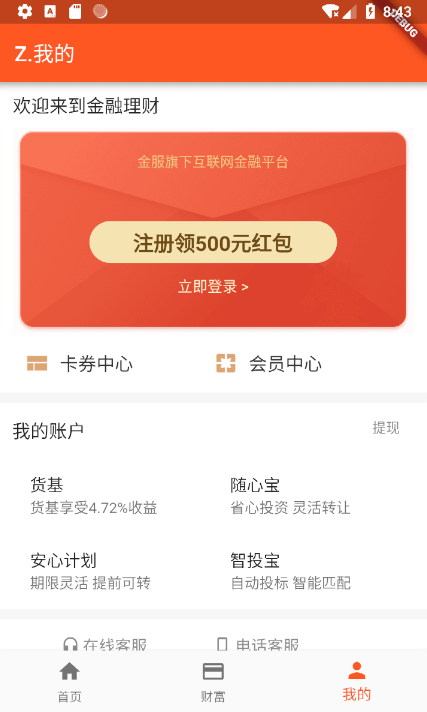
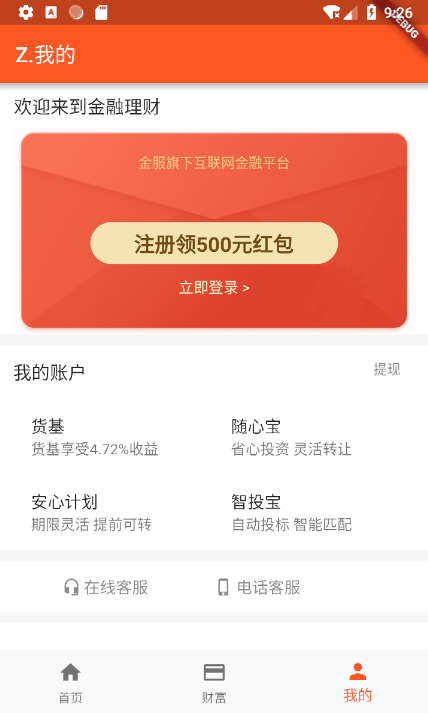
保存登录

diff --git a/lib/page/customer/customer_page.dart b/lib/page/customer/customer_page.dart
@@ -1,6 +1,10 @@
 import 'package:flutter/material.dart';
 import 'package:flutter_screenutil/flutter_screenutil.dart';
 import 'package:flutter_app/unit/event_bus.dart';
+// storage
+import 'package:flutter_app/storage/storage.dart';
+// 请求
+import 'package:flutter_app/api/my_xhr.dart';
 
 class CustomerPage extends StatefulWidget {
   @override
@@ -10,6 +14,53 @@ class CustomerPage extends StatefulWidget {
 class _CustomerPageState extends State<CustomerPage> {
 
   final EventBus bus = new EventBus();
+
+  bool _isLogin = false;
+  Map _userInfo;
+
+  // 获取用户数据
+  Future _getUserInfo (phone) async {
+    var data = await MyXhr.$get('/user-info?phone=$phone');
+    return data;
+  }
+
+  // 检查登录
+  void _checkoutLogin() {
+    LocalStorage.getString('phone').then((phone) {
+      if (phone != null) {
+        _getUserInfo(phone).then((userInfo) {
+          setState(() {
+            _isLogin = true;
+            _userInfo = userInfo;
+          });
+        });
+      }
+    });
+  }
+
+  // 进入登录页
+  void _loginAccount() {
+    Navigator.pushNamed(context, "/login_page").then((res) {
+      _checkoutLogin();
+    });
+  }
+
+  // 退出登录
+  void _logout() {
+    LocalStorage.remove('phone').then((res) {
+      setState(() {
+        _isLogin = false;
+        _userInfo = null;
+      });
+    });
+  }
+  
+  @override
+  void initState() {
+    super.initState();
+    // 判断登录
+    _checkoutLogin();
+  }
   
   @override
   Widget build(BuildContext context) {
@@ -20,7 +71,7 @@ class _CustomerPageState extends State<CustomerPage> {
       ),
       body: ListView(
         children: <Widget>[
-          _accountWidget(context: context),
+          _isLogin ? _accountWidget(userInfo: _userInfo, logout: _logout) : _registeredWidget(context: context, loginAccount: _loginAccount),
           _brWidget(),
           _shoppingListWidget(),
           _brWidget(),
@@ -32,12 +83,118 @@ class _CustomerPageState extends State<CustomerPage> {
   }
 }
 
-Widget _accountWidget ({@required context}) {
+// 用户模块
+Widget _accountWidget ({@required userInfo, @required logout}) {
+
+  Widget _userInfoUnitWidget ({@required icon, @required name}) {
+    return Expanded(
+      flex: 1,
+      child: Row(
+        children: <Widget>[
+          Icon(icon, color: Color(0xFFdca671)),
+          Padding(
+            padding: EdgeInsets.only(left: ScreenUtil().setWidth(9)),
+            child: Text(name, style: TextStyle(color: Color(0xFF333333), fontSize: ScreenUtil().setSp(16))),
+          )
+        ],
+      )
+    );
+  }
+
+  return Container(
+    padding: EdgeInsets.symmetric(
+      horizontal:  ScreenUtil().setWidth(20),
+      vertical: ScreenUtil().setWidth(12)
+    ),
+    child: Column(
+      children: <Widget>[
+        Row(
+          children: <Widget>[
+            Expanded(
+              flex: 1,
+              child: Text(userInfo['name'], style: TextStyle(fontSize: ScreenUtil().setSp(16), color: Color(0xFF333333))),
+            ),
+            GestureDetector(
+              child: Icon(
+                Icons.settings,
+                color: Color(0xFF333333),
+              ),
+              onTap: logout
+            )
+          ],
+        ),
+        Stack(
+          children: <Widget>[
+            Positioned(
+              child: Image.asset('assets/images/nicaifu.jpg', width: ScreenUtil().setWidth(335)),
+            ),
+            Positioned(
+              left: ScreenUtil().setWidth(9),
+              bottom: ScreenUtil().setWidth(7),
+              child: Container(
+                width: ScreenUtil().setWidth(317),
+                height: ScreenUtil().setWidth(32),
+                padding: EdgeInsets.only(left: ScreenUtil().setWidth(30)),
+                decoration: BoxDecoration(
+                  color: Color(0xffe65134),
+                  border: Border.all(color: Colors.transparent, width: 1.0),
+                  borderRadius: BorderRadius.only(
+                    bottomLeft: Radius.circular(ScreenUtil().setWidth(12)),
+                    bottomRight: Radius.circular(ScreenUtil().setWidth(12))
+                  )
+                ),
+                child: Text(
+                  '在途：${userInfo["midway"]}元',
+                  style: TextStyle(
+                      color: Color(0xFFf7b6a9),
+                      fontSize: ScreenUtil().setSp(12),
+                      height: 1.5
+                    ),
+                  ),
+              )
+            ),
+            Container(
+              padding: EdgeInsets.symmetric(horizontal: ScreenUtil().setWidth(30)),
+              child: Column(
+                children: <Widget>[
+                  Container(
+                    width: double.infinity,
+                    padding: EdgeInsets.only(top: ScreenUtil().setWidth(18), bottom: ScreenUtil().setWidth(20)),
+                    child: Text('总资产(元)', style: TextStyle(color: Color(0xFFf7b6a9), fontSize: ScreenUtil().setSp(12)))
+                  ),
+                  Container(
+                    width: double.infinity,
+                    child: Text(userInfo['money'], style: TextStyle(color: Color(0xFFf2b6ac), fontSize: ScreenUtil().setSp(34))),
+                  ),
+                  Container(
+                    width: double.infinity,
+                    padding: EdgeInsets.only(top: ScreenUtil().setWidth(6), bottom: ScreenUtil().setWidth(16)),
+                    child: Text('累计总收益(元) ${userInfo["profit"]}', style: TextStyle(color: Color(0xFFf7b6a9), fontSize: ScreenUtil().setSp(12))),
+                  ),
+                ],
+              ),
+            )
+          ],
+        ),
+        Padding(
+          padding: EdgeInsets.only(top: ScreenUtil().setWidth(10)),
+          child: Row(
+            children: <Widget>[
+              _userInfoUnitWidget(icon: Icons.view_compact, name: '卡券中心'),
+              _userInfoUnitWidget(icon: Icons.pages, name: '会员中心')
+            ],
+          )
+        )
+      ],
+    ),
+  );
+}
+
+// 用户未登录模块
+Widget _registeredWidget ({@required context, @required loginAccount}) {
   
   Widget _loginBannerWidget () {
-    void _loginAccount() {
-      Navigator.pushNamed(context, "/login_page");
-    }
+
     return GestureDetector(
       child: Stack(
         children: <Widget>[
@@ -70,22 +227,7 @@ Widget _accountWidget ({@required context}) {
           ),
         ],
       ),
-      onTap: _loginAccount
-    );
-  }
-
-  Widget _userInfoUnitWidget ({@required icon, @required name}) {
-    return Expanded(
-      flex: 1,
-      child: Row(
-        children: <Widget>[
-          Icon(icon, color: Color(0xFFdca671)),
-          Padding(
-            padding: EdgeInsets.only(left: ScreenUtil().setWidth(9)),
-            child: Text(name, style: TextStyle(color: Color(0xFF333333), fontSize: ScreenUtil().setSp(16))),
-          )
-        ],
-      )
+      onTap: loginAccount
     );
   }
 
@@ -98,21 +240,13 @@ Widget _accountWidget ({@required context}) {
           width: ScreenUtil().setWidth(375),
           child: Text('欢迎来到金融理财', style: TextStyle(fontSize: ScreenUtil().setSp(16))),
         ),
-        _loginBannerWidget(),
-        Padding(
-          padding: EdgeInsets.symmetric(vertical: ScreenUtil().setWidth(14), horizontal: ScreenUtil().setWidth(10)),
-          child: Row(
-            children: <Widget>[
-              _userInfoUnitWidget(icon: Icons.view_compact, name: '卡券中心'),
-              _userInfoUnitWidget(icon: Icons.pages, name: '会员中心')
-            ],
-          )
-        )
+        _loginBannerWidget()
       ],
     ),
   );
 }
 
+// 用户产品清单
 Widget _shoppingListWidget () {
 
   Widget _shoppingUnitWidget ({@required title, @required subtitle}) {
@@ -153,6 +287,7 @@ Widget _shoppingListWidget () {
   );
 }
 
+// 客服模块
 Widget _contactWidget () {
   Widget _contactStyleWidget ({@required icon, @required text}) {
     return Expanded(
@@ -180,6 +315,7 @@ Widget _contactWidget () {
   );
 }
 
+// 
 Widget _brWidget ({height = 9}) {
   return Container(
     height: ScreenUtil().setWidth(height),

diff --git a/lib/storage/storage.dart b/lib/storage/storage.dart
@@ -1,0 +1,38 @@
+import 'package:shared_preferences/shared_preferences.dart';
+
+// 增、改
+// sharedPreferences.setString(key, value);
+// 删
+// sharedPreferences.remove(key);
+// 查
+// sharedPreferences.get(key);
+
+class LocalStorage {
+  
+  static Future getString(String key) async {
+      SharedPreferences sharedPreferences = await SharedPreferences.getInstance();
+      return sharedPreferences.getString(key);
+  }
+  
+  static Future setString(String key, String value) async {
+      SharedPreferences sharedPreferences = await SharedPreferences.getInstance();
+      sharedPreferences.setString(key, value);
+  }
+
+  static Future getBool(String key) async {
+      SharedPreferences sharedPreferences = await SharedPreferences.getInstance();
+      return sharedPreferences.getBool(key);
+  }
+
+  static Future setBool(String key, bool value) async {
+      SharedPreferences sharedPreferences = await SharedPreferences.getInstance();
+      sharedPreferences.setBool(key, value);
+  }
+
+  static Future remove(String key) async {
+      SharedPreferences sharedPreferences = await SharedPreferences.getInstance();
+      sharedPreferences.remove(key);
+  }
+  
+}
+

diff --git a/lib/page/treasure/selection/bank_selection_page.dart b/lib/page/treasure/selection/bank_selection_page.dart
@@ -3,6 +3,9 @@ import 'package:flutter_screenutil/flutter_screenutil.dart';
 import 'package:flutter_app/view/bank_product.dart';
 // 请求
 import 'package:flutter_app/api/my_xhr.dart';
+// storage
+import 'package:flutter_app/storage/storage.dart';
+
 class BankSelectionPage extends StatefulWidget {
   final item;
   BankSelectionPage({Key key, this.item}) : super(key: key);
@@ -27,7 +30,12 @@ class _BankSelectionState extends State<BankSelectionPage> {
 
   void _intoChoicenessDetail({id}) {
     print(id);
-    Navigator.pushNamed(context, "/login_page");
+    bool isLogin = LocalStorage.getString('phone') == null;
+    if (isLogin) {
+      print('已登陆');
+    } else {
+      Navigator.pushNamed(context, "/login_page");
+    }
   }
 
   @override

diff --git a/lib/page/login/login_page.dart b/lib/page/login/login_page.dart
@@ -1,5 +1,7 @@
 import 'package:flutter/material.dart';
 import 'package:flutter_screenutil/flutter_screenutil.dart';
+// storage
+import 'package:flutter_app/storage/storage.dart';
 
 class LoginPage extends StatefulWidget {
   final String title;
@@ -22,7 +24,9 @@ class _LoginPageState extends State<LoginPage> {
   _submitLogin () {
   if (_phoneNum.length == 11) {
       return () {
-        print(_phoneNum + 'xx');
+        LocalStorage.setString('phone', _phoneNum);
+        // 登录成功
+        Navigator.pop(context);
       };
     } else {
       return null;

diff --git a/back-end/router.js b/back-end/router.js
@@ -1,5 +1,6 @@
 
 module.exports = {
     '/choice-list': require('./mock/choice_list.js'),
-    '/bank_product_list': require('./mock/bank_product_list.js')
+    '/bank_product_list': require('./mock/bank_product_list.js'),
+    '/user-info': require('./mock/user_info.js'),
 }

diff --git a/back-end/mock/user_info.js b/back-end/mock/user_info.js
@@ -1,0 +1,6 @@
+module.exports = {
+    'name': '蘑菇碳',
+    'money': '323,214,617.35',
+    'profit': '21301.32',
+    'midway': '2153888.33'
+}

diff --git a/README.md b/README.md
@@ -1,16 +1,15 @@
 # flutter_app
 
-> 这是一个使用flutter编写的金融理财项目
+> 这是一个功能齐全的 flutter 金融理财APP项目
 
 效果图：
 
-| ![首屏图](preview/projector_page.png)    | ![首页](preview/home_page.png)    | ![银行理财页](preview/bank_section.png) |
-| ---------------------------------------- | --------------------------------- | --------------------------------------- |
-| ![用户信息页](preview/customer_page.png) | ![登录页](preview/login_page.png) | ![webview](preview/webview.png) |
+| ![首屏图](preview/projector_page.png)    | ![首页](preview/home_page.png)    | ![银行理财页](preview/bank_section.png) | ![webview](preview/webview.png) |
+| ---------------------------------------- | --------------------------------- | --------------------------------------- | --------------------------------- |
+| ![用户信息页](preview/customer_page.png) | ![登录页](preview/login_page.png) | ![用户页](preview/account_page.png) |
 
 项目计划
 * [x] 静态页面
-* [x] 有状态widget
 * [x] 屏幕适配（ScreenUtil）
 * [x] 事件处理
 * [x] 页面路由
@@ -18,11 +17,12 @@
 * [x] EvnetBus
 * [x] 封装httpClient请求
 * [x] koa2 node服务器
-* [x] 动态数据拼接
+* [x] 请求数据动态拼接
 * [x] webview（flutter_webview_plugin）
+* [x] Storage 保持登录状态
+* [ ] Redux
 * [ ] node架构完善
 * [ ] 统一路由动画
-* [ ] Redux
 * [ ] RxDart
 
 外链:
